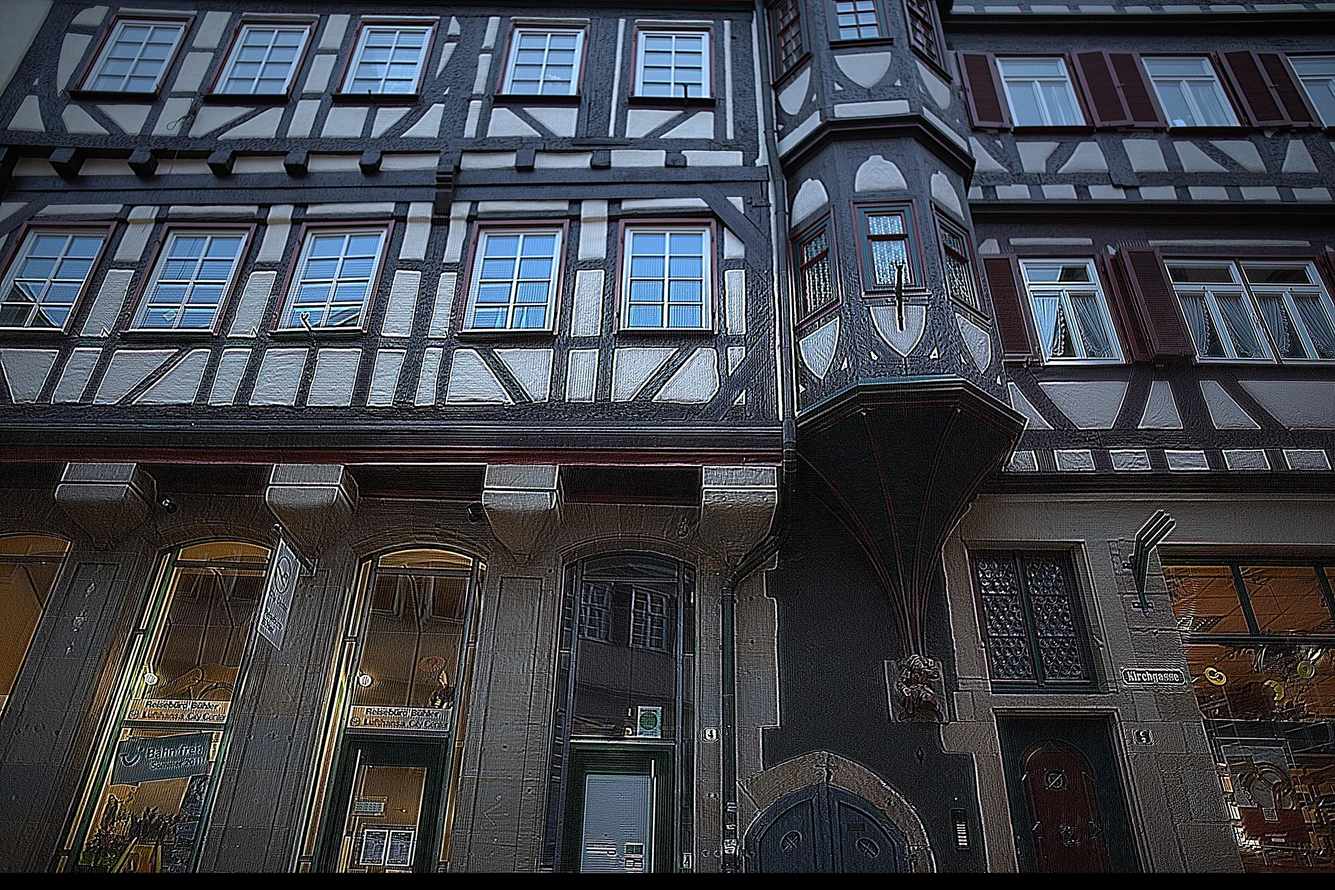
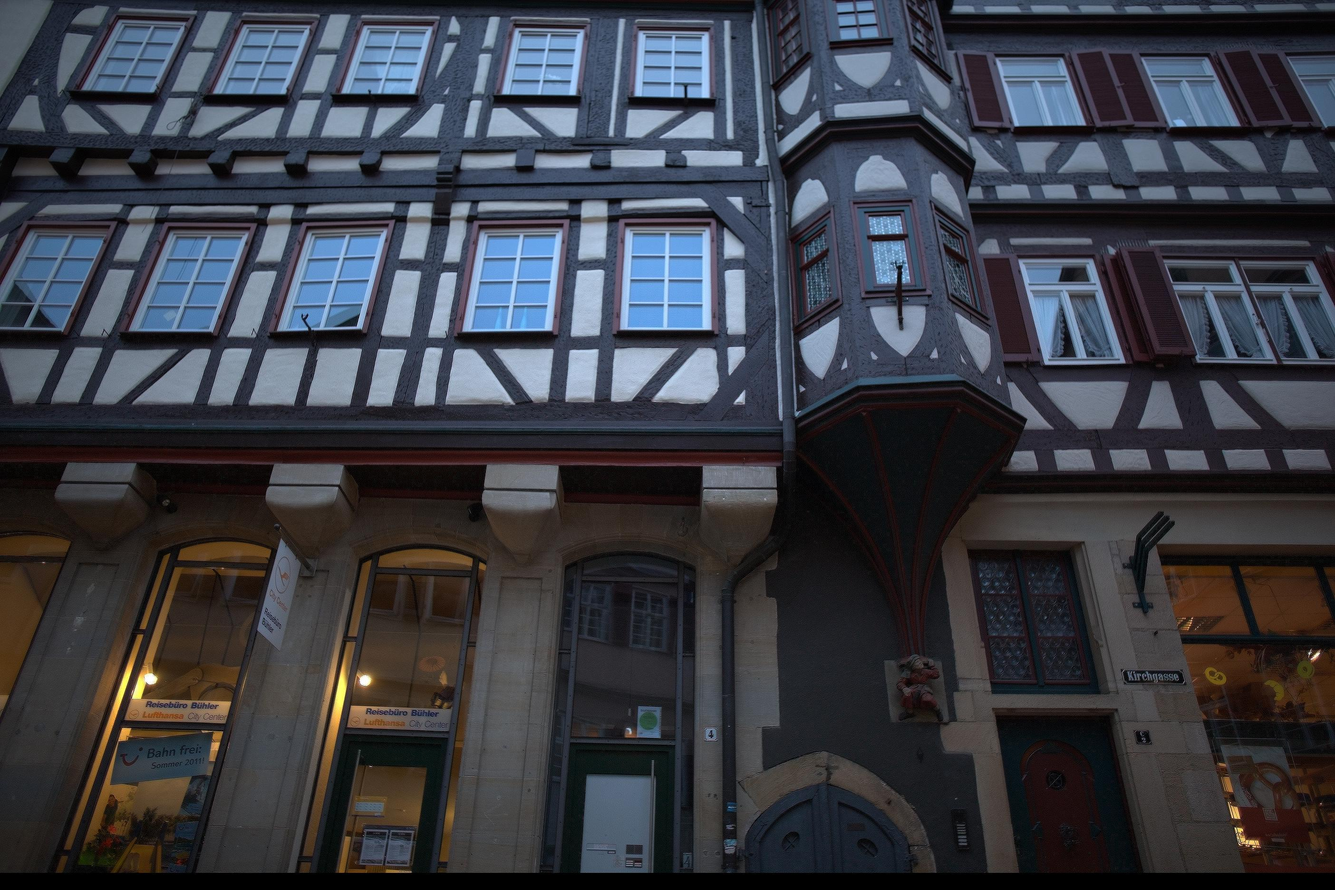
better constraints on rho and sigma

diff --git a/fast_optics_correction/modules.py b/fast_optics_correction/modules.py
@@ -58,10 +58,11 @@ class OpticsCorrection(nn.Module):
                 kernel = blur_estimation(patch, c=c, sigma_b=sigma_b, ker_size=self.ker_size)
 
                 ## Sharpen the patch with base/detail decomposition
-                patch_base = recursive_filter(patch, sigma_s=2, sigma_r=0.1)
-                patch_detail = patch - patch_base
-                patch_base = mild_inverse_rank3(patch_base, kernel, correlate=True, halo_removal=False, alpha=alpha, b=b)  # (b,3,pH,pW)
-                patch = patch_detail + patch_base
+                # patch_base = recursive_filter(patch, sigma_s=2, sigma_r=0.1)
+                # patch_detail = patch - patch_base
+                # patch_base = mild_inverse_rank3(patch_base, kernel, correlate=True, halo_removal=False, alpha=alpha, b=b)  # (b,3,pH,pW)
+                # patch = patch_detail + patch_base
+                patch = mild_inverse_rank3(patch, kernel, correlate=True, halo_removal=False, alpha=alpha, b=b)  # (b,3,pH,pW)
 
             ##### Defringing module
             ## Extract indiviual color channels
